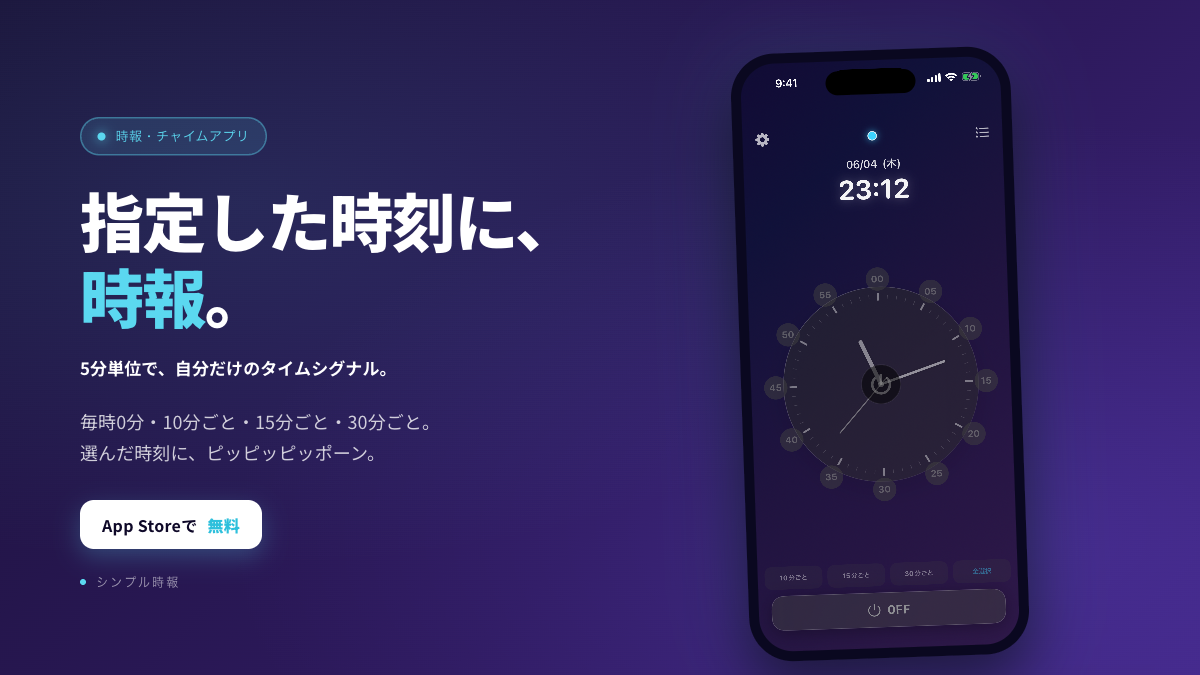
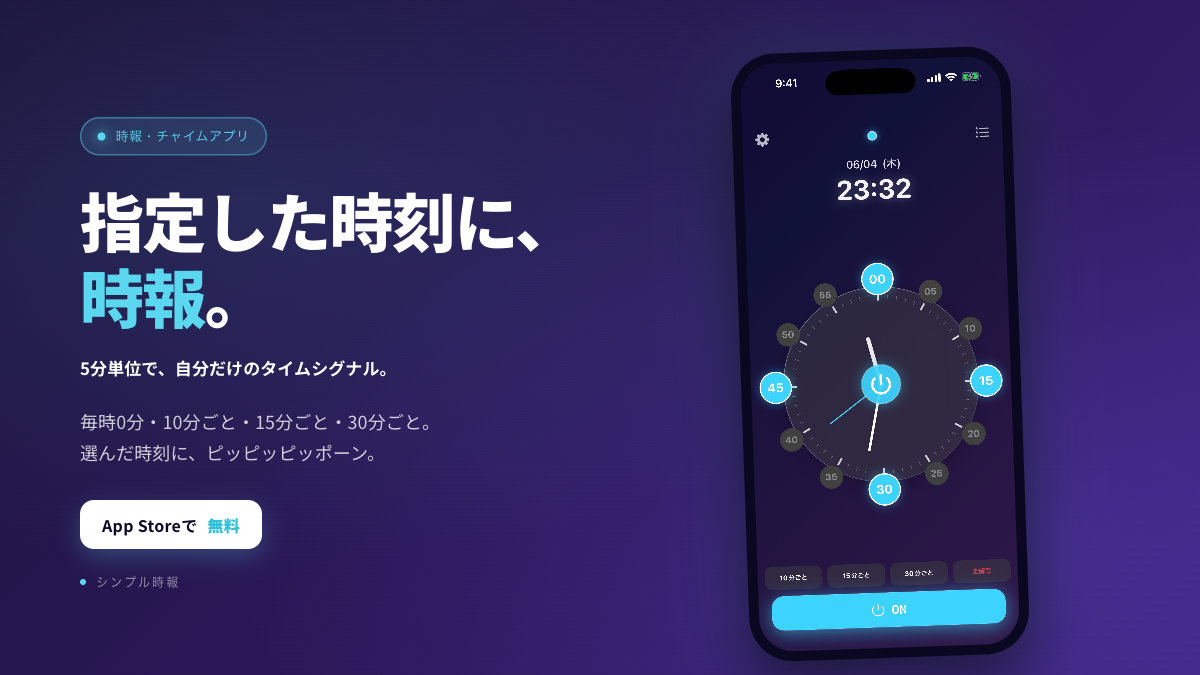
fix(promo): 告知画像のスクショをON状態に差し替え
- home_on.png 新規追加（[0,15,30,45]選択+isOn=true の魅力的なスクショ）
- x-post-v1.html を home_dark.png → home_on.png に切替
- ts_g1.png, ts_g3.png を再生成
- 旧 home_dark.png / home_light.png / home_clean.png は機能アピール弱いため未使用

diff --git a/marketing/x-launch/x-post-v1.html b/marketing/x-launch/x-post-v1.html
@@ -120,7 +120,7 @@
     <div class="name-row"><span class="d"></span><span class="app-name">シンプル時報</span></div>
   </div>
   <div class="right">
-    <div class="phone"><img src="../shots/home_dark.png" alt=""></div>
+    <div class="phone"><img src="../shots/home_on.png" alt=""></div>
   </div>
 </div>
 
@@ -161,7 +161,7 @@
     <div class="name-row"><span class="d"></span><span class="app-name">シンプル時報</span></div>
   </div>
   <div class="right">
-    <div class="phone"><img src="../shots/home_dark.png" alt=""></div>
+    <div class="phone"><img src="../shots/home_on.png" alt=""></div>
   </div>
 </div>
 
